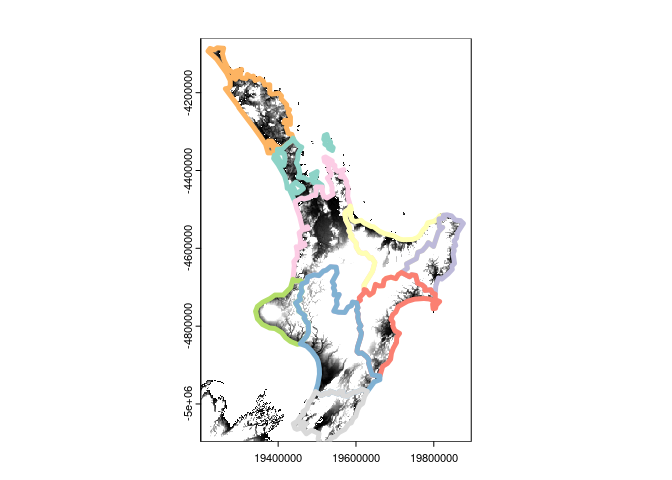
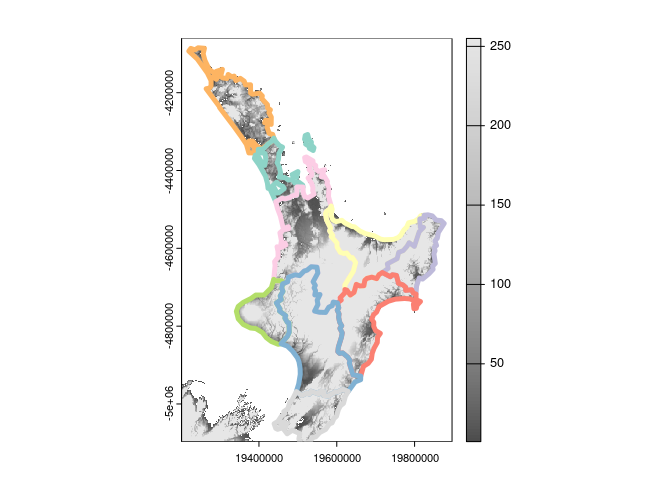
new read_tiles() and unpack_rgb()

diff --git a/README.md b/README.md
@@ -14,25 +14,30 @@ define the region of interest.
 library(ceramic)
 #> Loading required package: terra
 #> terra 1.7.23
-roi <- raster::extent(100, 160, -50, 10)
+roi <- ext(100, 160, -50, 10)
 im <- cc_location(roi)
 
-terra::plotRGB(im)
+plotRGB(im)
 ```
 
 <img src="man/figures/README-unnamed-chunk-1-1.png" width="100%" />
 
-We can use raster, sp, or sf objects to define an extent. This provides
-a very easy way to obtain imagery or elevation data for any almost any
-region using our own data.
+The terra package is always loaded by ceramic, so we can assume the use
+of its functions, ceramic accepts a wider range of inputs than terra
+does however.
+
+We can use wk, geos, terra, raster, sp, sf, or stars objects, or an
+input lon,lat point and a buffer (in metres) to define an extent. This
+provides a very easy way to obtain imagery or elevation data for any
+almost any region using our own data.
 
 ``` r
 sql <- "SELECT shapeGroup FROM geoBoundariesCGAZ_ADM0 WHERE shapeGroup IN ('BOL')"
 dsn <- "/vsizip//vsicurl/https://github.com/wmgeolab/geoBoundaries/raw/main/releaseData/CGAZ/geoBoundariesCGAZ_ADM0.zip"
-bol <- sf::read_sf(dsn, query = sql)
+bol <- vect(dsn, query = sql)
 
 im <- cc_location(bol)
-terra::plotRGB(im)
+plotRGB(im)
 ```
 
 <img src="man/figures/README-extent2-1.png" width="100%" />
@@ -41,7 +46,7 @@ Even if the data uses a map projection it will be converted into a
 region to match the Mercator extents used by Mapbox image servers.
 
 There are basic heuristics to decide if data is projected or just in
-“longitude,latitude” in the usual raster package way.
+“longitude,latitude” in the usual way.
 
 Raster elevation data is also available.
 
@@ -52,7 +57,8 @@ dem_nz <- cc_elevation(north, type = "elevation-tiles-prod" )
 
 ## plot elevation data for NZ north
 dem_nz[!dem_nz > 0] <- NA
-terra::plot(dem_nz, col = grey(seq(0, 1, length = 51)), breaks = quantile(unique(terra::values(dem_nz)), seq(0, 1, length = 52), na.rm = TRUE), legend = FALSE)
+
+plot(dem_nz, col = grey.colors(128))
 plot(st_transform(st_cast(north, "MULTILINESTRING")["Name"], terra::crs(dem_nz)), add = TRUE, lwd = 5)
 ```
 
@@ -60,10 +66,30 @@ plot(st_transform(st_cast(north, "MULTILINESTRING")["Name"], terra::crs(dem_nz))
 
 ## I thought you said *tiles*?
 
-Indeed, the `cc_location()` and `cc_elevation()` functions no longer use
-tiles. WAT
+Indeed, here’s a function called `read_tiles()`, it shares the same
+interface as `get_tiles()`.
 
-But, they used to run `get_tiles()` behind the scenes.
+``` r
+read_tiles()
+#> Preparing to download: 1 tiles at zoom = 0 from 
+#> https://api.mapbox.com/v4/mapbox.satellite/
+#> class       : SpatRaster 
+#> dimensions  : 256, 256, 3  (nrow, ncol, nlyr)
+#> resolution  : 156543, 156543  (x, y)
+#> extent      : -20037508, 20037508, -20037508, 20037508  (xmin, xmax, ymin, ymax)
+#> coord. ref. : +proj=merc +lon_0=0 +k=1 +x_0=0 +y_0=0 +R=6378137 +units=m +no_defs 
+#> source      : 0.jpg 
+#> colors RGB  : 1, 2, 3 
+#> names       : 0_1, 0_2, 0_3
+```
+
+Note that, the `cc_location()` and `cc_elevation()` functions no longer
+use tiles, they read directly from the internet using GDAL and are not
+related to the tile download facilities.
+
+But, they used to run `get_tiles()` behind the scenes. The separation is
+still a little unfinished, but I want ceramic to have separation of
+loading data from the internet with downloading tiles.
 
 This function and its counterparts `get_tiles_zoom()`, `get_tiles_dim()`
 and `get_tiles_buffer()` will *only download files*.
@@ -87,6 +113,48 @@ str(tile_summ$tiles)
 #>   .. .. ..$ y: chr [1:8] "y=153" "y=154" "y=155" "y=156" ...
 #>  $ zoom : num 8
 #>  - attr(*, "class")= chr "tile_grid"
+
+(tile_rect <- tiles_to_polygon(ceramic_tiles(zoom = 8)))
+#> <wk_rct[78] with CRS=EPSG:3857>
+#>  [1] [15028131 -3600490 15184674 -3443947] [15028131 -3757033 15184674 -3600490]
+#>  [3] [15028131 -3913576 15184674 -3757033] [15028131 -4070119 15184674 -3913576]
+#>  [5] [15028131 -4226662 15184674 -4070119] [15028131 -4383205 15184674 -4226662]
+#>  [7] [15028131 -4539748 15184674 -4383205] [15184674 -3600490 15341217 -3443947]
+#>  [9] [15184674 -3757033 15341217 -3600490] [15184674 -3913576 15341217 -3757033]
+#> [11] [15184674 -4070119 15341217 -3913576] [15184674 -4226662 15341217 -4070119]
+#> [13] [15184674 -4383205 15341217 -4226662] [15184674 -4539748 15341217 -4383205]
+#> [15] [15967389 -4539748 16123932 -4383205] [15967389 -4696291 16123932 -4539748]
+#> [17] [15967389 -4852834 16123932 -4696291] [16123932 -4539748 16280476 -4383205]
+#> [19] [16123932 -4696291 16280476 -4539748] [16123932 -4852834 16280476 -4696291]
+#> [21] [16123932 -5009377 16280476 -4852834] [16123932 -5165920 16280476 -5009377]
+#> [23] [16280476 -4539748 16437019 -4383205] [16280476 -4696291 16437019 -4539748]
+#> [25] [16280476 -4852834 16437019 -4696291] [16280476 -5009377 16437019 -4852834]
+#> [27] [16280476 -5165920 16437019 -5009377] [16437019 -4852834 16593562 -4696291]
+#> [29] [16437019 -5009377 16593562 -4852834] [16437019 -5165920 16593562 -5009377]
+#> [31] [19098250 -4070119 19254793 -3913576] [19098250 -4226662 19254793 -4070119]
+#> [33] [19098250 -4383205 19254793 -4226662] [19098250 -4539748 19254793 -4383205]
+#> [35] [19098250 -4696291 19254793 -4539748] [19098250 -4852834 19254793 -4696291]
+#> [37] [19098250 -5009377 19254793 -4852834] [19098250 -5165920 19254793 -5009377]
+#> [39] [19254793 -4070119 19411336 -3913576] [19254793 -4226662 19411336 -4070119]
+#> [41] [19254793 -4383205 19411336 -4226662] [19254793 -4539748 19411336 -4383205]
+#> [43] [19254793 -4696291 19411336 -4539748] [19254793 -4852834 19411336 -4696291]
+#> [45] [19254793 -5009377 19411336 -4852834] [19254793 -5165920 19411336 -5009377]
+#> [47] [19411336 -4070119 19567879 -3913576] [19411336 -4226662 19567879 -4070119]
+#> [49] [19411336 -4383205 19567879 -4226662] [19411336 -4539748 19567879 -4383205]
+#> [51] [19411336 -4696291 19567879 -4539748] [19411336 -4852834 19567879 -4696291]
+#> [53] [19411336 -5009377 19567879 -4852834] [19411336 -5165920 19567879 -5009377]
+#> [55] [19567879 -4070119 19724422 -3913576] [19567879 -4226662 19724422 -4070119]
+#> [57] [19567879 -4383205 19724422 -4226662] [19567879 -4539748 19724422 -4383205]
+#> [59] [19567879 -4696291 19724422 -4539748] [19567879 -4852834 19724422 -4696291]
+#> [61] [19567879 -5009377 19724422 -4852834] [19567879 -5165920 19724422 -5009377]
+#> [63] [19724422 -4070119 19880965 -3913576] [19724422 -4226662 19880965 -4070119]
+#> [65] [19724422 -4383205 19880965 -4226662] [19724422 -4539748 19880965 -4383205]
+#> [67] [19724422 -4696291 19880965 -4539748] [19724422 -4852834 19880965 -4696291]
+#> [69] [19724422 -5009377 19880965 -4852834] [19724422 -5165920 19880965 -5009377]
+#> [71] [19880965 -4070119 20037508 -3913576] [19880965 -4226662 20037508 -4070119]
+#> [73] [19880965 -4383205 20037508 -4226662] [19880965 -4539748 20037508 -4383205]
+#> [75] [19880965 -4696291 20037508 -4539748] [19880965 -4852834 20037508 -4696291]
+#> [77] [19880965 -5009377 20037508 -4852834] [19880965 -5165920 20037508 -5009377]
 ```
 
 This is really for expert use when you want to control the downloaded

diff --git a/NEWS.md b/NEWS.md
@@ -14,6 +14,10 @@ o BREAKING CHANGES
 
 o CHANGES
 
+* New function `unpack_rgb()` to calculate elevation from packed Byte Mapbox terrain-rgb. 
+
+* New function `read_tiles()` replaces old use of `cc_location()` to actually read downloaded tiles. 
+
 * ceramic no longer imports from  spex. 
 
 * Objects from {terra}, {stars}, {wk} and {geos} are now supported for using in `cc_location(loc = )`. 
